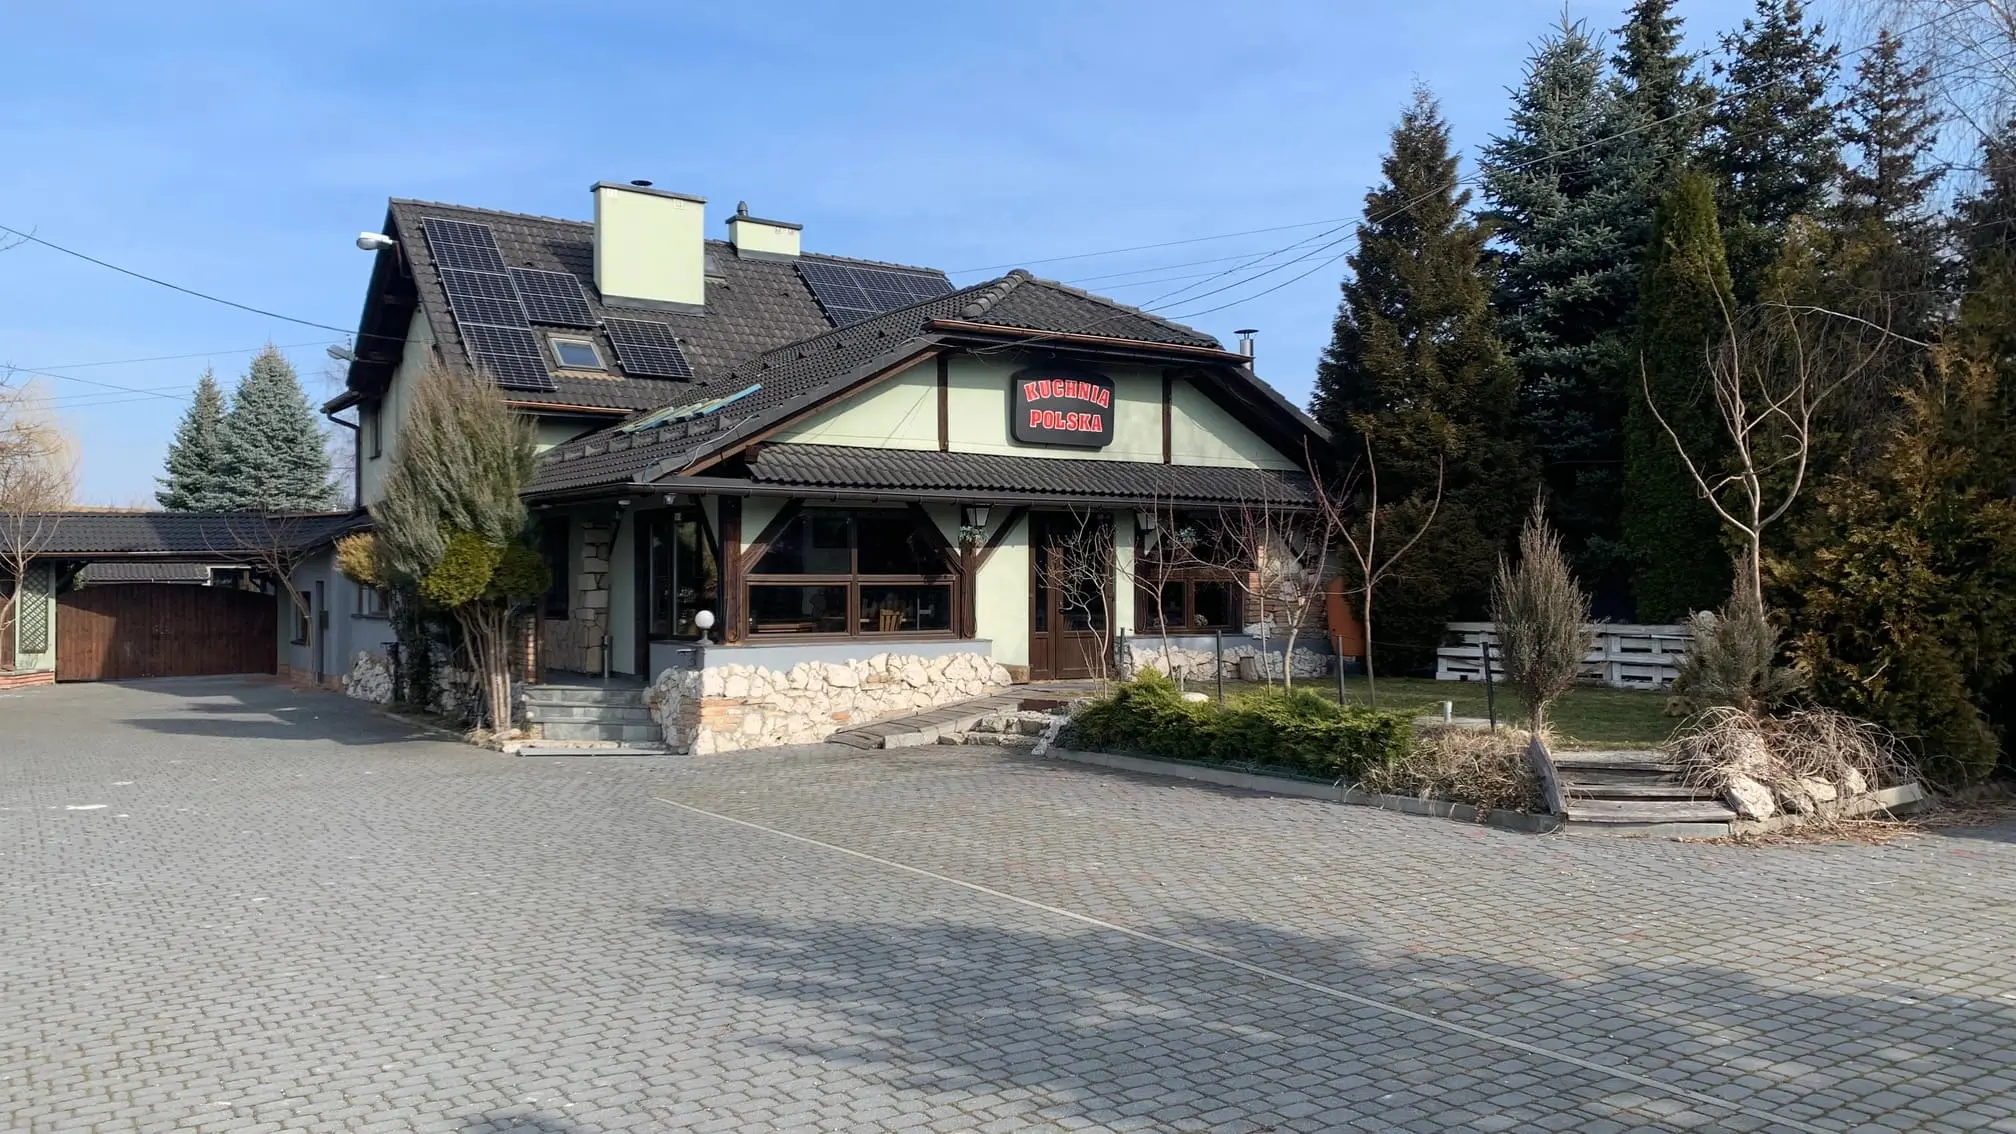
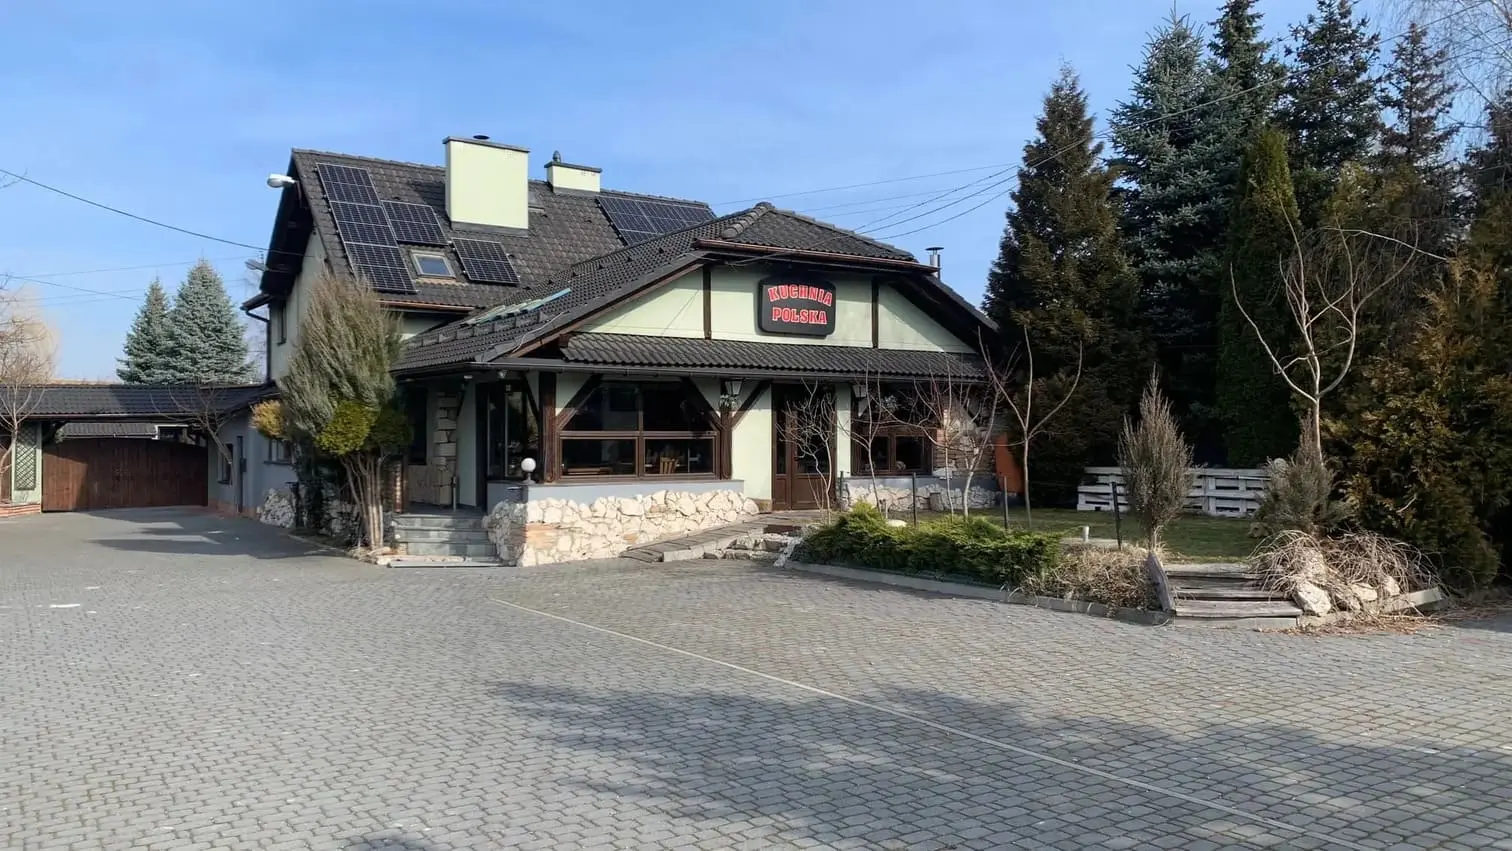
fix: top imgs resized

diff --git a/src/app/kwatery/[slug]/page.jsx b/src/app/kwatery/[slug]/page.jsx
@@ -54,8 +54,8 @@ export default async function RoomDetail({ params }) {
             <Image
               src={room.roomImg}
               alt='Pokoje pracownicze do wynajęcia w Słomnikach'
-              width={2016}
-              height={1134}
+              width={1512}
+              height={851}
               loading='lazy' // Wymusza leniwe ładowanie
               priority={false} // Zapewnia, że Next.js nie wymusi eager loading
               unoptimized // Zapobiega problemom z eksportem

diff --git a/src/app/kontakt/page.jsx b/src/app/kontakt/page.jsx
@@ -24,8 +24,8 @@ export default function Kontakt() {
             <Image
               src='/global/patio.webp'
               alt='img'
-              width={2016}
-              height={1134}
+              width={1512}
+              height={851}
               loading='lazy' // Wymusza leniwe ładowanie
               priority={false} // Zapewnia, że Next.js nie wymusi eager loading
               unoptimized // Zapobiega problemom z eksportem

diff --git a/src/app/kwatery/page.jsx b/src/app/kwatery/page.jsx
@@ -33,8 +33,8 @@ export default function Rooms() {
           <Image
             src='/global/korytarz-parter_img1.webp'
             alt='img'
-            width={2016}
-            height={1134}
+            width={1512}
+            height={851}
             loading='lazy' // Wymusza leniwe ładowanie
             priority={false} // Zapewnia, że Next.js nie wymusi eager loading
             unoptimized // Zapobiega problemom z eksportem

diff --git a/src/app/page.jsx b/src/app/page.jsx
@@ -23,8 +23,8 @@ export default function Home() {
           <Image
             src='/global/front_img.webp'
             alt='img'
-            width={2016}
-            height={1134}
+            width={1512}
+            height={851}
             loading='lazy' // Wymusza leniwe ładowanie
             priority={false} // Zapewnia, że Next.js nie wymusi eager loading
             unoptimized // Zapobiega problemom z eksportem
